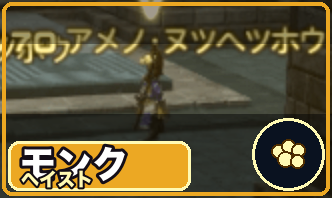
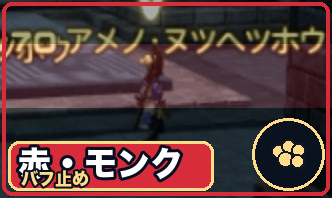
Update Mihashira Nutsuhetsuhou color variants

diff --git a/mihashira/index.html b/mihashira/index.html
@@ -1063,9 +1063,9 @@
       {name:"オンラ",floor:"F90ボス",group:"f81",danger:true,stun:false,sleep:false,patrol:false,sense:"ボス",image:"img/monsters/onra.png",youtube:"",youtubeTitle:"F90 ボス解説動画",notes:["エンシェントクエイガ後は砂玉が出る。全員で同じ方向へ逃げ、玉の爆発とヘヴィを避ける。","メテオインパクトは詠唱開始時のボス位置から距離減衰。タンクは詠唱が見えるまで動かしすぎない。","オーラキャノンは前方直線、ナックルプレスは敵中心範囲。どちらも当たらない前提で処理。"]},
 
       {name:"アメノ・ゴズ",floor:"F91〜93",group:"f91",danger:true,stun:false,sleep:false,patrol:true,sense:"視覚",image:"img/monsters/ameno-gozu-91.png",notes:["危険度★★★★。巡回タイプで、戦闘開始時に突進してくる。釣る時はタンクと一緒に動く。","32トンスワイプはランダム対象の不可視前方範囲。128トンズ・スイングは敵中心範囲なので、向きと距離を見て避ける。"]},
-      {name:"アメノ・ヌツヘツホウ（戦士）",floor:"F91〜94",group:"f91",danger:true,stun:true,sleep:false,patrol:false,sense:"視覚",image:"img/monsters/ameno-nutsuhetsuhou-warrior.png",notes:["危険度★★★★。猛突進を連続で使い、押し出しで部屋や罠へ運ばれやすい。タンクは通路の壁を背にして戦う。","時間をかけると高威力のレイジングラッシュが来る。スタン可だが、長引かせない。"]},
-      {name:"アメノ・ヌツヘツホウ（モンク）",floor:"F91〜94",group:"f91",danger:false,stun:true,sleep:false,patrol:false,sense:"視覚",image:"img/monsters/ameno-nutsuhetsuhou-monk.png",notes:["危険度★★。フットワークでヘイスト、フェザーステップで回避率アップを使う。バフが重なると硬くて痛い。","フットワーク後のフェザーステップはかなり早い。スタンで止めると処理しやすい。"]},
-      {name:"アメノ・ヌツヘツホウ（白魔導士）",floor:"F91〜94",group:"f91",danger:false,stun:true,sleep:false,patrol:false,sense:"視覚",image:"img/monsters/ameno-nutsuhetsuhou-whm.png",notes:["危険度★★。ストーンとストーンスキンを使うが、スタンも沈黙も効くので狙い目。","他の敵へストーンスキンを張りに動くことがある。深追いして追加で釣らないようにする。"]},
+      {name:"アメノ・ヌツヘツホウ（青・戦士）",floor:"F91〜94",group:"f91",danger:true,stun:true,sleep:false,patrol:false,sense:"視覚",image:"img/monsters/ameno-nutsuhetsuhou-warrior.png?v=20260613",notes:["ヘイト1位へ連続突進。タンクは壁を背にして戦わないと大きくノックバックさせられる。スタン有効。","突進後に戦士のフェルクリーヴ系の高火力技が来る。かなり痛いので、軽減とヒールを厚めに。"]},
+      {name:"アメノ・ヌツヘツホウ（赤・モンク）",floor:"F91〜94",group:"f91",danger:true,stun:true,sleep:false,patrol:false,sense:"視覚",image:"img/monsters/ameno-nutsuhetsuhou-monk.png?v=20260613",notes:["フットワーク、フェザーステップで大きく強化される。スタン有効なので、せめてフットワークだけでも止めたい。","スタンが2枚あるなら、フットワーク後すぐ来るフェザーステップも止めるとタンクが助かる。両方付いたら軽減を厚めに。"]},
+      {name:"アメノ・ヌツヘツホウ（白・白魔導士）",floor:"F91〜94",group:"f91",danger:false,stun:true,sleep:false,patrol:false,sense:"視覚",image:"img/monsters/ameno-nutsuhetsuhou-whm.png?v=20260613",notes:["遠くからストーンを詠唱し続ける。壁に隠れて視線切りし、通路や初期部屋へ連れて行くと戦いやすい。","時間経過で近くの敵にストンスキンを使いに行くことがある。キャスターはアドルを入れると楽。スタン有効。"]},
       {name:"アメノ・ジャキ",floor:"F93〜97",group:"f91",danger:true,stun:true,sleep:null,patrol:false,sense:"視覚",image:"img/monsters/ameno-jaki.png",notes:["危険度★★★★。ミールストームは対象中心範囲で、当たるとHPが1になる。沈黙またはスタンで止める。","無詠唱の範囲ランダム攻撃もある。PTメンバー同士は近づきすぎない。"]},
       {name:"アメノ・ミフネ",floor:"F91〜99",group:"f91",danger:true,stun:false,sleep:null,patrol:false,sense:"接近",image:"img/monsters/ameno-mifune.png",notes:["危険度★★★★。ヴァルファズルはランダム対象の即死級突進。視線切りに自信がない時は戦闘回避も考える。","タンク対象なら無敵で受ける選択肢。DPSやヒーラー対象なら遮蔽物で切る動きを狙う。"]},
       {name:"アメノ・クビナシ",floor:"F94〜96",group:"f91",danger:true,stun:false,sleep:null,patrol:true,sense:"視覚",image:"img/monsters/ameno-kubinashi.png",notes:["危険度★★★★。巡回タイプ。クラウドカバーで巨大化し、段階が進むほど火力が上がる。","最大まで大きくなると全体即死級につながる。放置せず、早めに倒すか対応を決める。"]},
